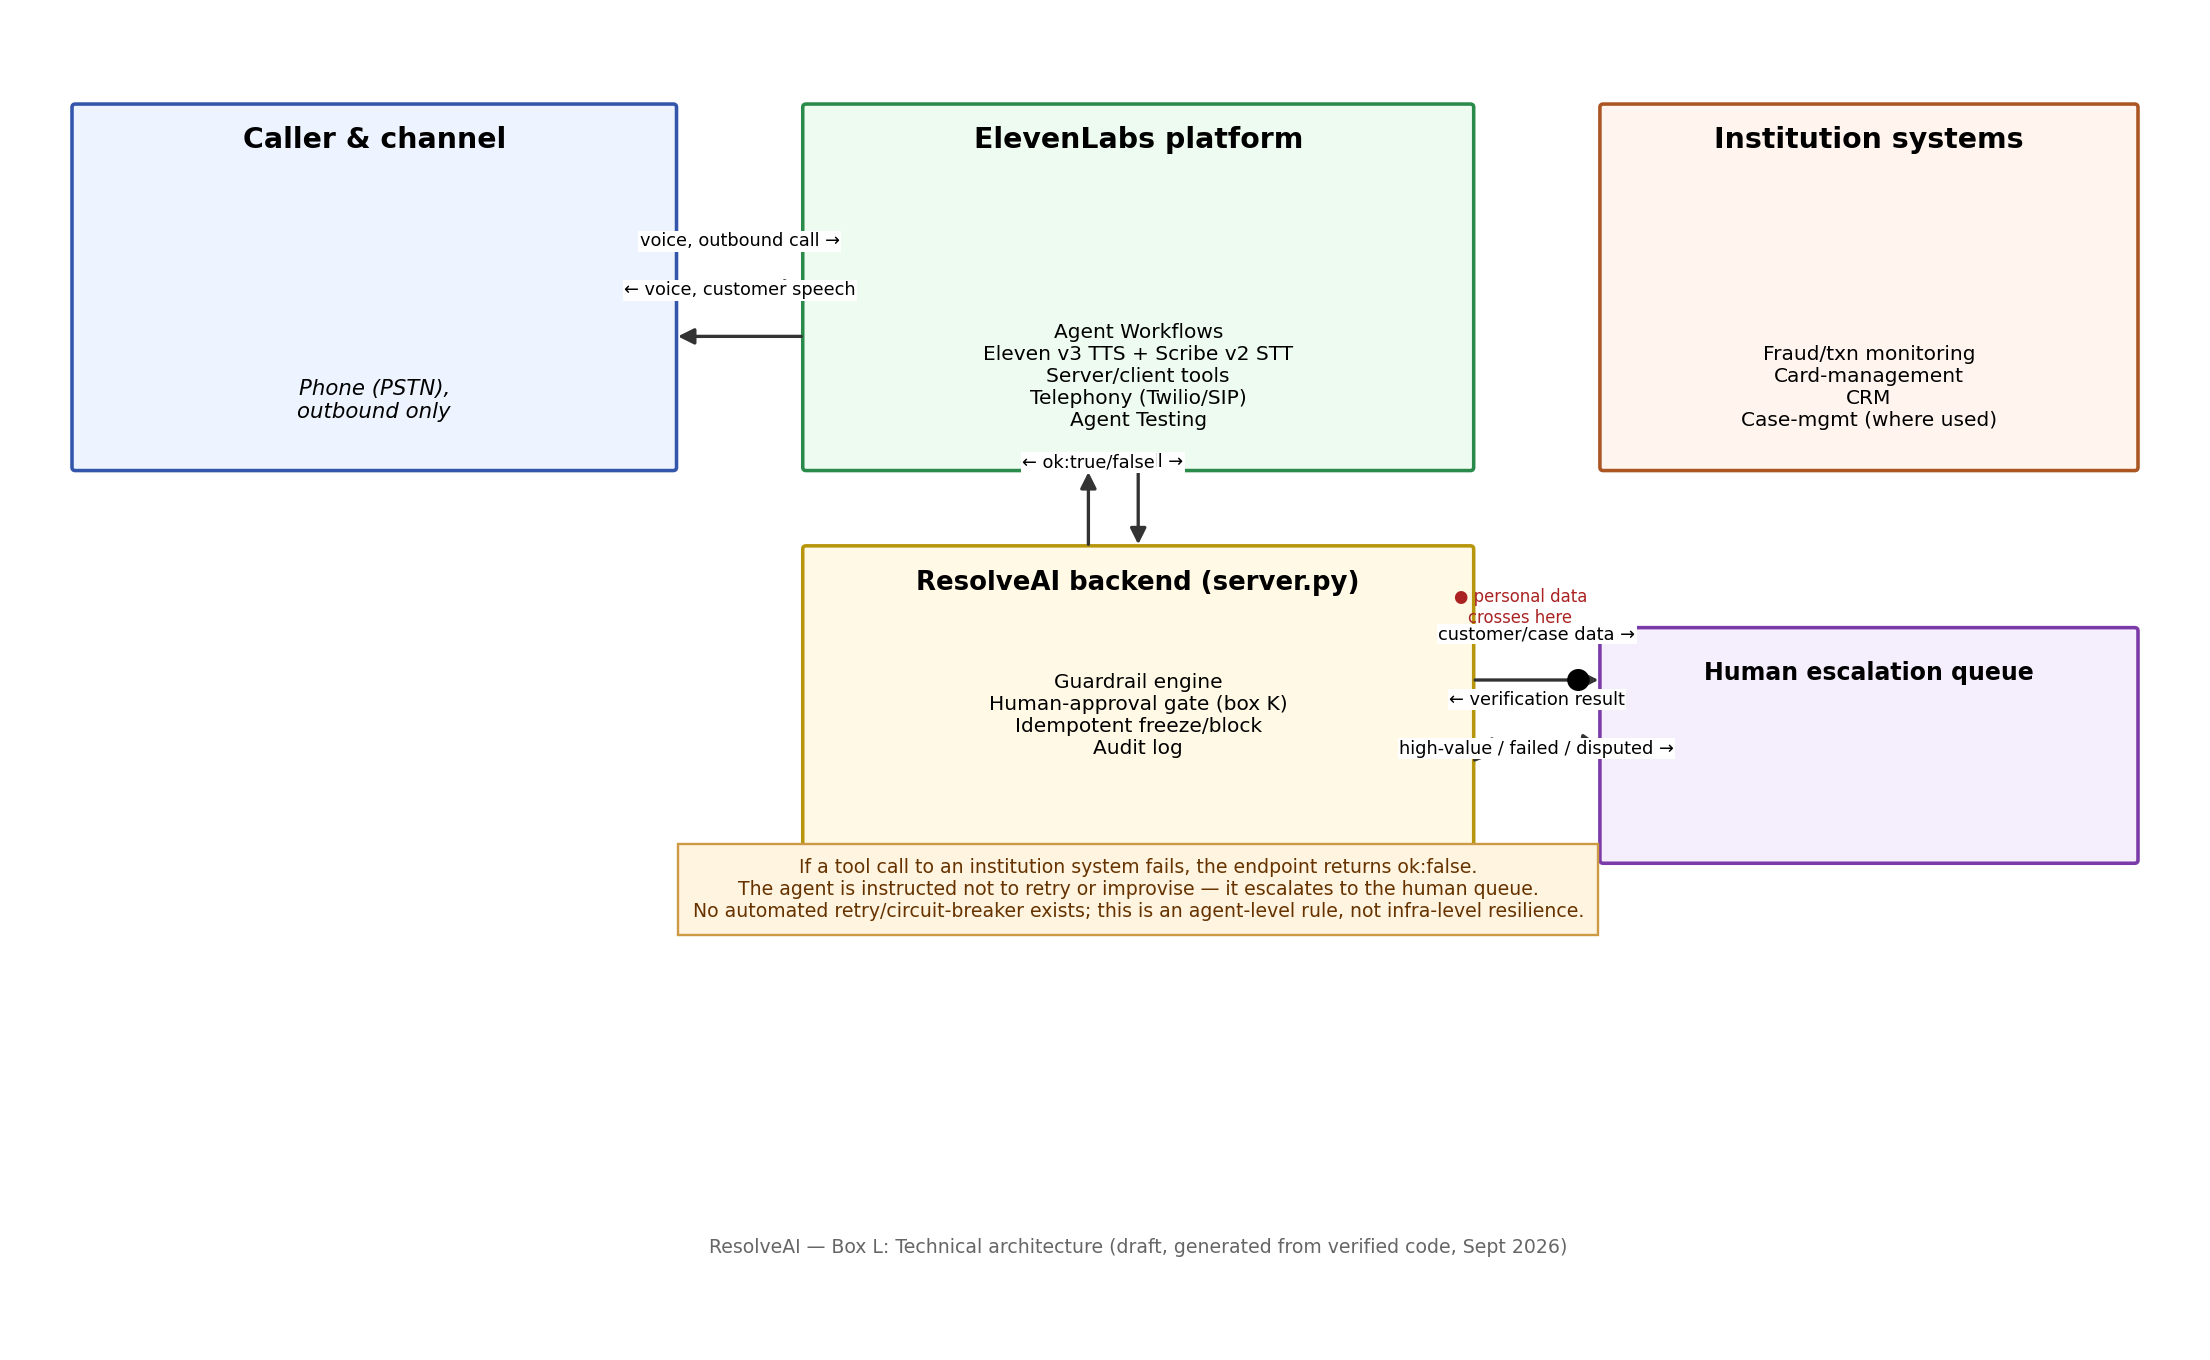
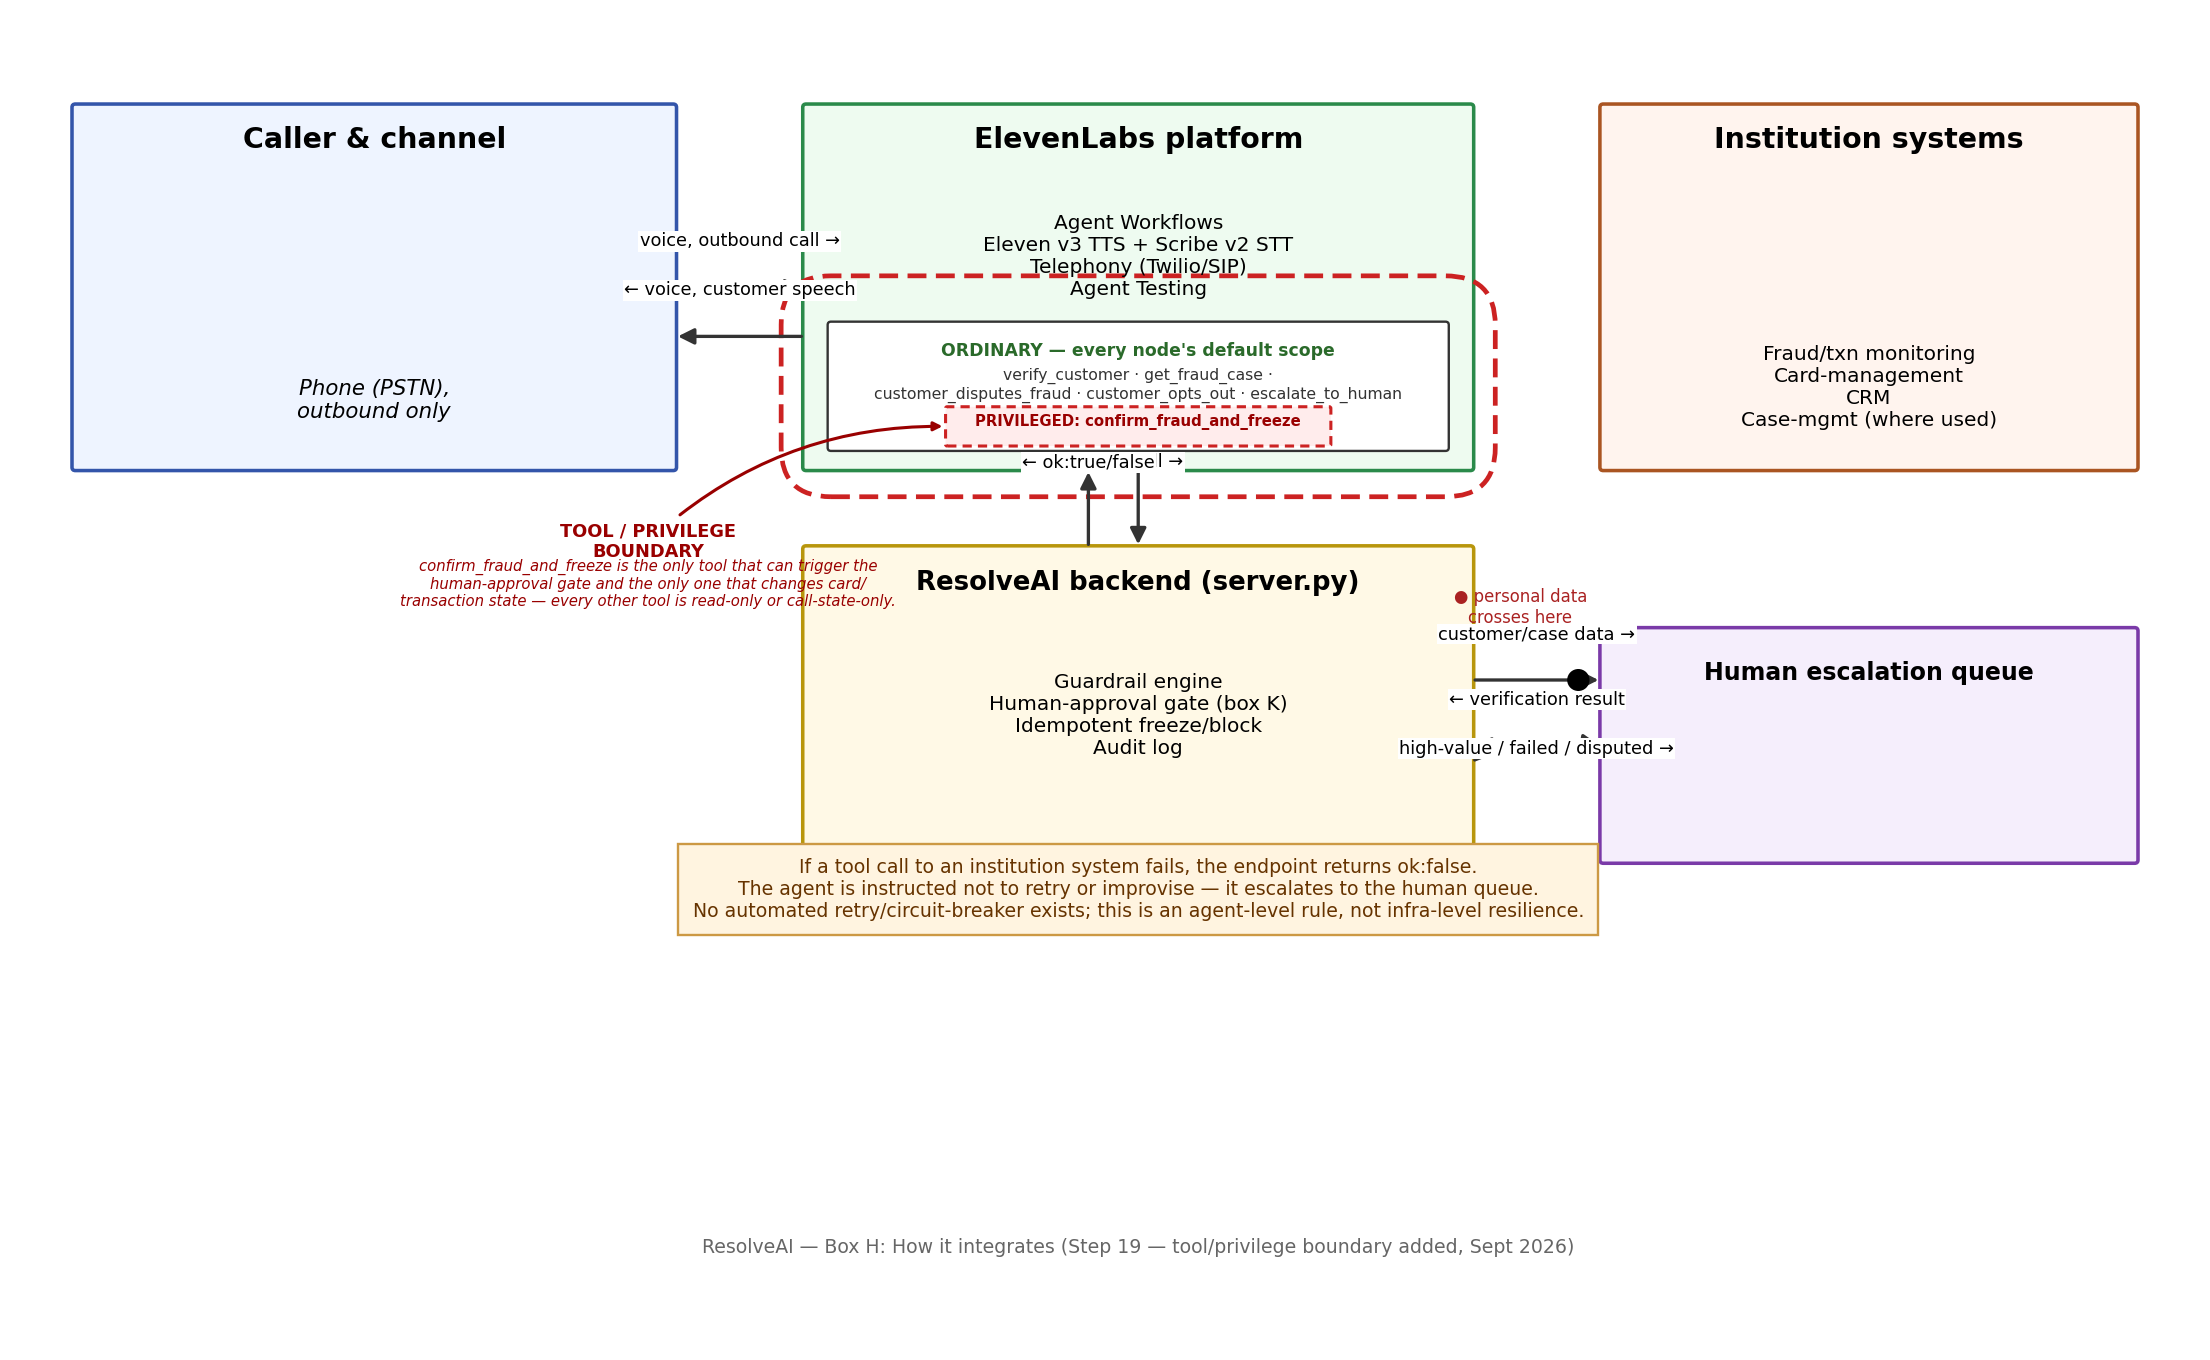
Add files via upload

diff --git a/canvas_evidence/MASTER_DRAFT.md b/canvas_evidence/MASTER_DRAFT.md
@@ -108,12 +108,10 @@ Shows: all 7 ticked G components, arrow directions, personal-data boundary
 (filled dot), human-approval gate, dependency-down behaviour (`ok:false` →
 escalate, no auto-retry).
 
-**Two disclosed gaps, not papered over:**
-1. **Tool/privilege boundary isn't drawn as its own visual element** —
-   discovered during the Step 11 mapping audit, still unfixed.
-2. **Institution systems shown by category only** (fraud/transaction
-   monitoring, card-management, CRM, contact-centre/dialer, case-management)
-   — Sumeira Noman withheld exact vendor/system names as confidential.
+**One disclosed gap remains** (institution systems shown by category only —
+Sumeira Noman withheld exact vendor/system names as confidential). The
+tool/privilege boundary gap flagged at Step 11 was fixed at Step 19 — see
+below.
 
 ---
 ## I — Guardrails *(20 words per row · Guardrails 20%. Was docx-K.)*
@@ -190,7 +188,7 @@ nothing else in the canvas can compensate for it.
 | E | Complete |
 | F | Complete |
 | G | Complete, corrected against real component menu |
-| H | Diagram exists, 2 disclosed gaps (tool/privilege boundary not drawn; system names withheld as confidential) |
+| H | Diagram updated Step 19 — tool/privilege boundary now explicit. 1 disclosed gap remains (system names withheld as confidential) |
 | I | Complete — all 6 rows, opt-out path implemented Step 16 |
 | J | Drafted — targets are proposed, not measured |
 | K | Complete |
